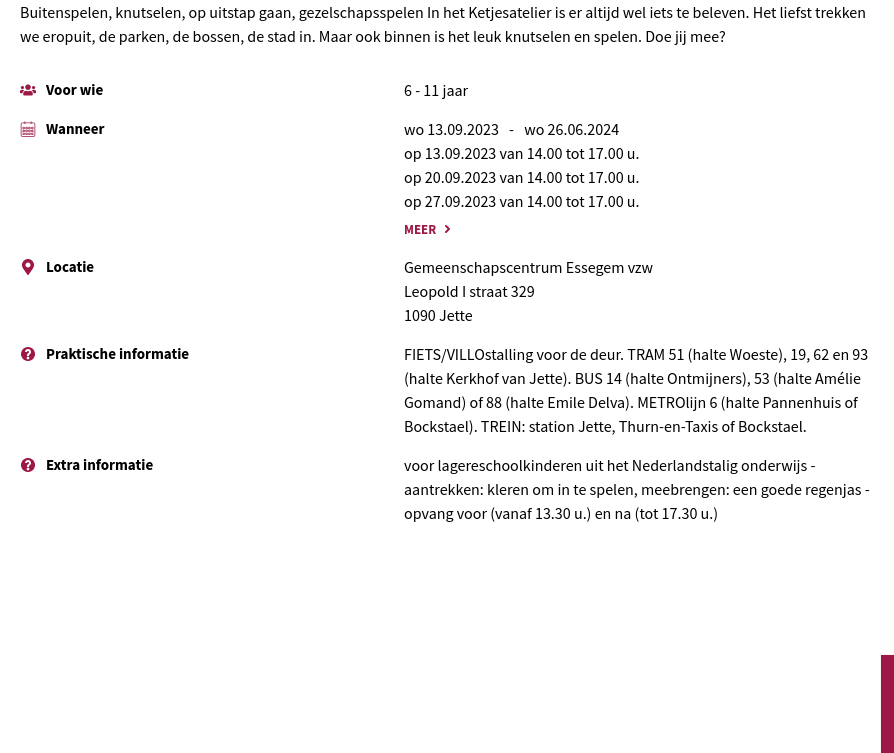
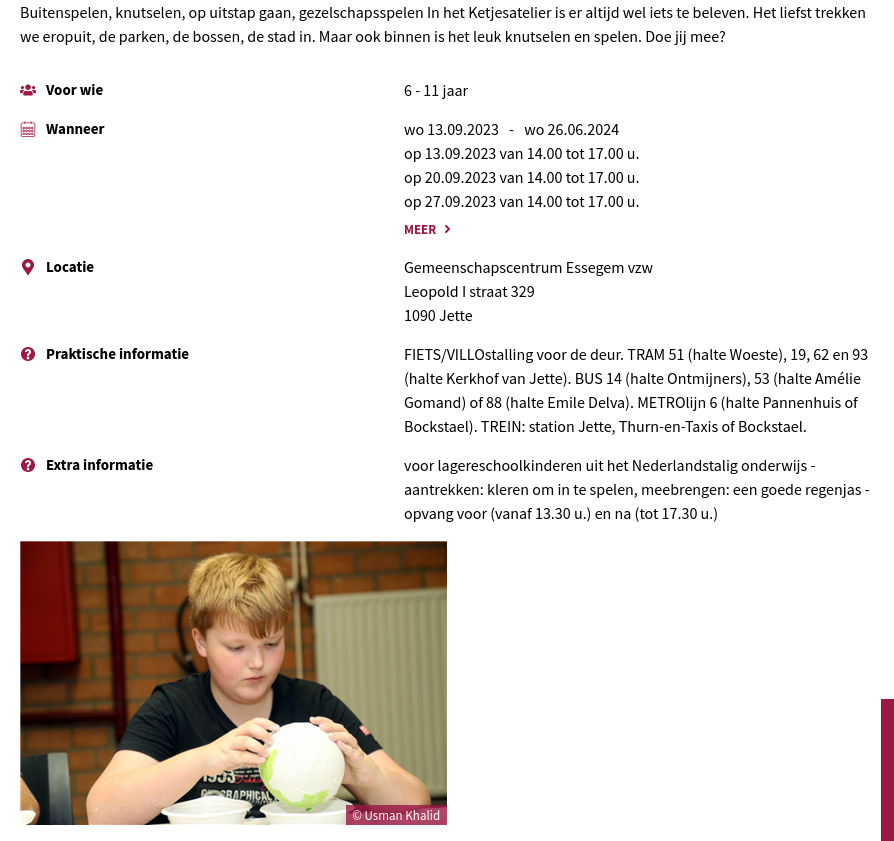
Latest scraping vgc: Tue Jun 13 17:18:59 UTC 2023

diff --git a/scrapes/vgc/essegem/ketjes-atelier.md b/scrapes/vgc/essegem/ketjes-atelier.md
@@ -62,6 +62,10 @@ Extra informatie
 
 voor lagereschoolkinderen uit het Nederlandstalig onderwijs - aantrekken: kleren om in te spelen, meebrengen: een goede regenjas - opvang voor (vanaf 13.30 u.) en na (tot 17.30 u.)
 
+![](/sites/essegem/files/styles/article_detail/public/viks/f-c4359e8267e44d3e98b5223c6a8fca67.png?itok=csFyrRrP)
+
+© Usman Khalid
+
 ![](ketjes-atelier.png)
 
 [Source](https://www.essegem.be/activiteiten/ketjesatelier-0)
